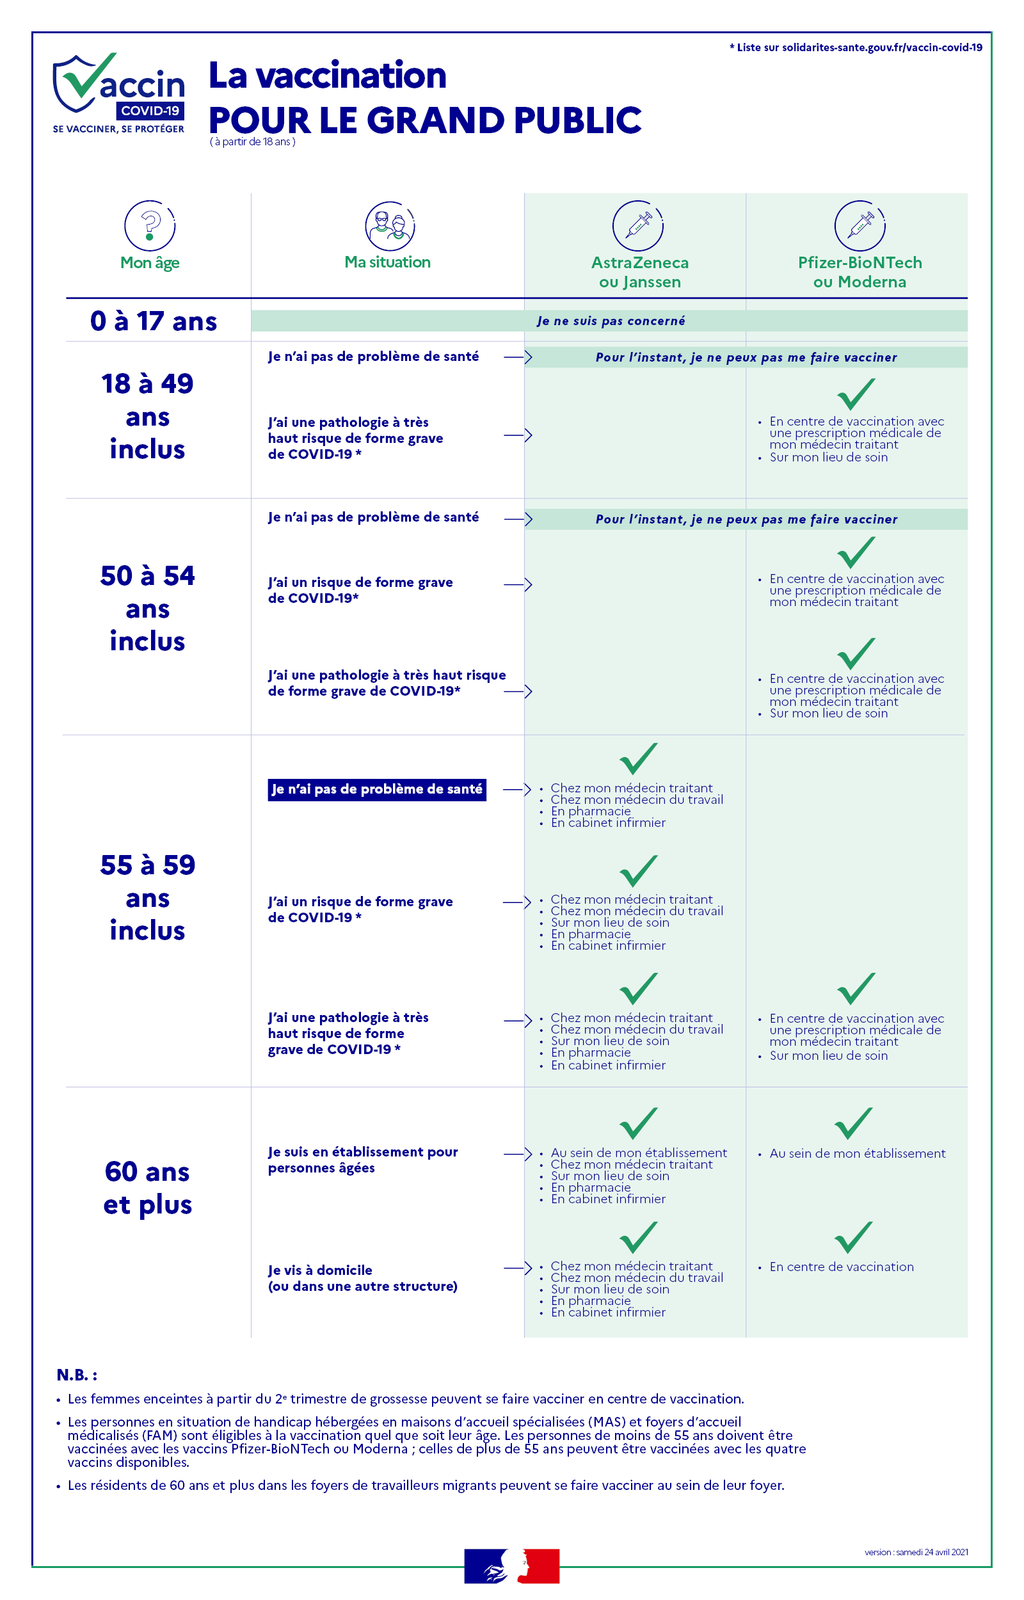
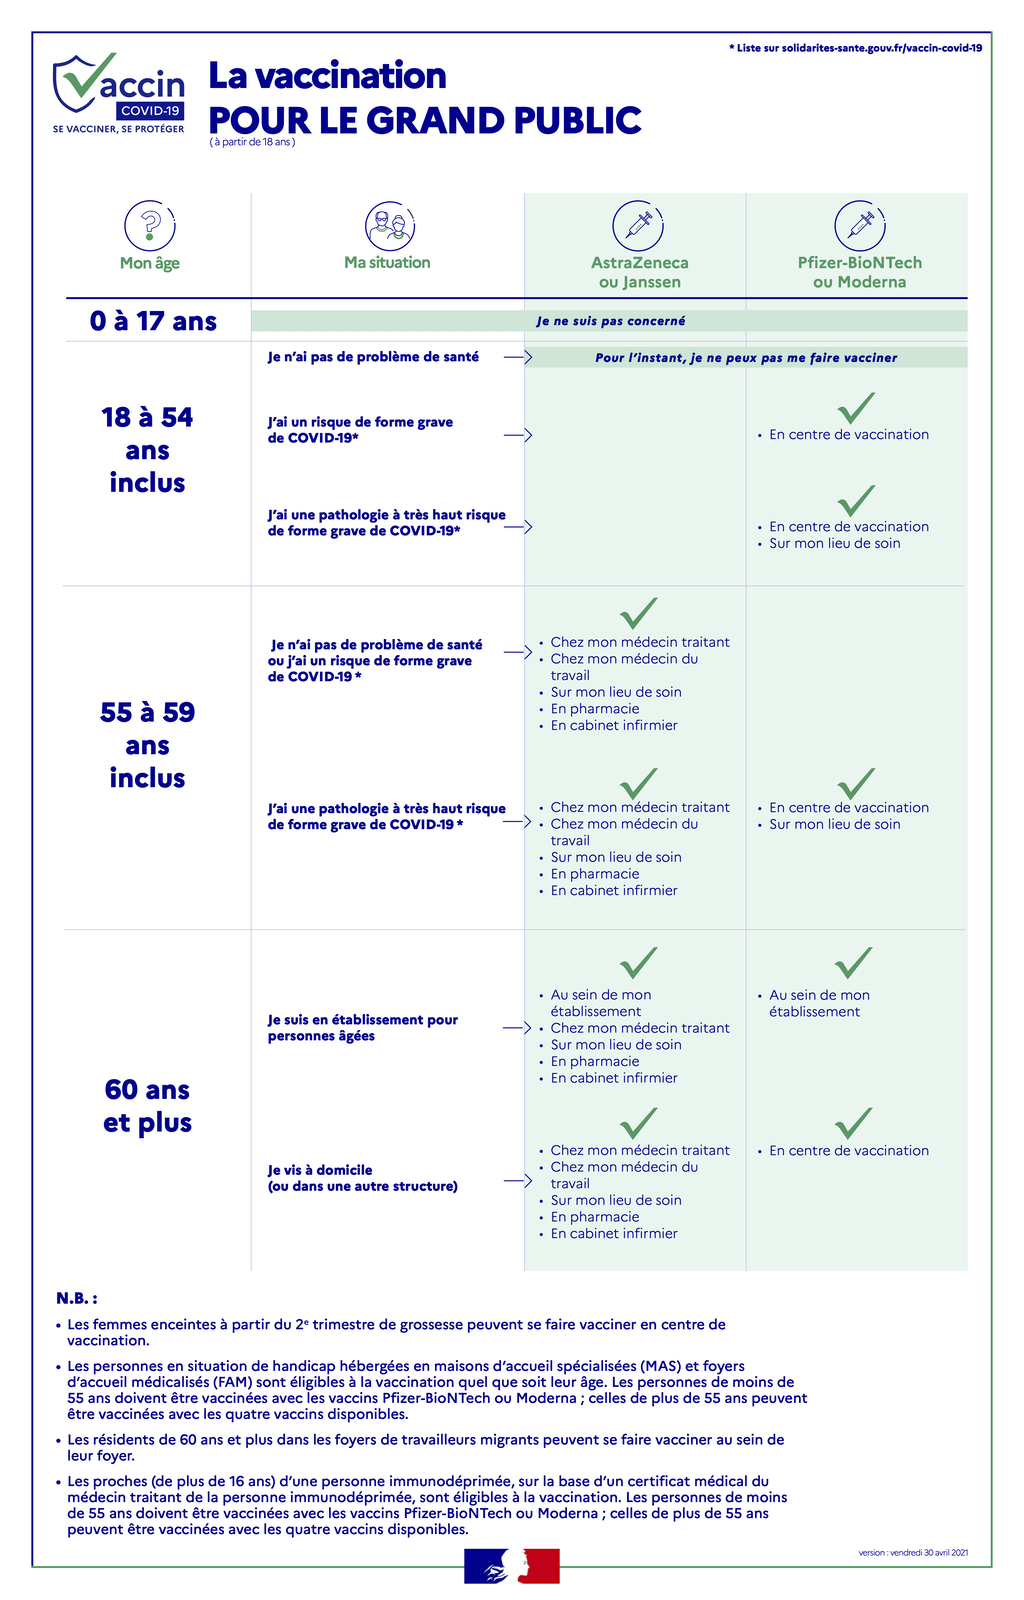
Mise à jour de l’infographie sur la vaccination

diff --git a/src/style.css b/src/style.css
@@ -1138,6 +1138,10 @@ a[href$='.pdf']::after {
 a[href*='youtube.com']::after {
     content: ' (vidéo Youtube)';
 }
+a.no-type::after {
+    content: '';
+}
+
 /* L’ordre est important, l’icône d’infographie écrase celle de fiche. */
 .conseils a[href="https://www.has-sante.fr/jcms/p_3185131/fr/accompagner-les-enfants-et-les-adolescents-dont-ceux-vivant-avec-une-maladie-chronique-lors-de-la-levee-du-confinement"]::before,
 .conseils a[href*="solidarites-sante-gouv-fr-IMG-pdf-"]::before,
@@ -1169,6 +1173,9 @@ a[href*='youtube.com']::after {
     align-items: center;
     width: 25px;
     height: 20px;
+}
+.conseils a.no-icon::before {
+    background: none;
 }
 
 .conseils details summary {

diff --git a/contenus/conseils/README.md b/contenus/conseils/README.md
@@ -905,13 +905,12 @@ Vous avec un traitement de longue durée ou une maladie chronique. Nous vous inv
 * <mark>à partir du **15 mai**</mark> : toutes les personnes de **50 ans et plus** ;
 * <mark>à partir du **15 juin**</mark> : toutes les personnes de **18 ans et plus**.
 
-<!-- 30/04/2021 : pas encore mise à jour -->
-<!--div class="illustration">
-    <a href="https://solidarites-sante.gouv.fr/local/adapt-img/1024/20x/IMG/png/infog_vaccins_particuliers.png">
+<div class="illustration">
+    <a href="https://solidarites-sante.gouv.fr/IMG/pdf/infog_vaccins_particuliers.pdf" class="no-icon no-type">
         <img src="illustrations/solidarites-sante-gouv-fr-infog-vaccins-particuliers.png"
              alt="Tableau illustrant la vaccination pour le grand public.">
     </a>
-</div-->
+</div>
 
 La vaccination est **gratuite** pour tous, et n’est **pas obligatoire**.
 

diff --git a/contenus/conseils/conseils_vaccins_pas_encore_vaccine.md b/contenus/conseils/conseils_vaccins_pas_encore_vaccine.md
@@ -11,13 +11,12 @@
 * <mark>à partir du **15 mai**</mark> : toutes les personnes de **50 ans et plus** ;
 * <mark>à partir du **15 juin**</mark> : toutes les personnes de **18 ans et plus**.
 
-<!-- 30/04/2021 : pas encore mise à jour -->
-<!--div class="illustration">
-    <a href="https://solidarites-sante.gouv.fr/local/adapt-img/1024/20x/IMG/png/infog_vaccins_particuliers.png">
+<div class="illustration">
+    <a href="https://solidarites-sante.gouv.fr/IMG/pdf/infog_vaccins_particuliers.pdf" class="no-icon no-type">
         <img src="illustrations/solidarites-sante-gouv-fr-infog-vaccins-particuliers.png"
              alt="Tableau illustrant la vaccination pour le grand public.">
     </a>
-</div-->
+</div>
 
 La vaccination est **gratuite** pour tous, et n’est **pas obligatoire**.
 
